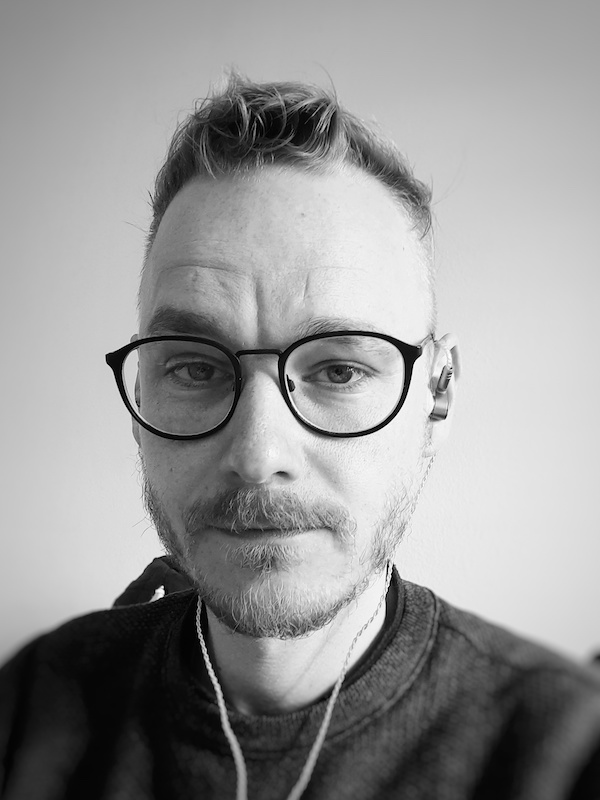
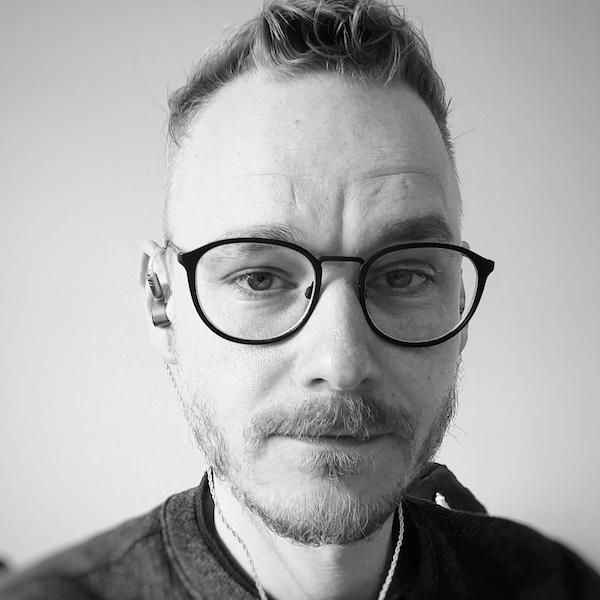
Update index.html, styles.css, head.jpg, Add responsive layout

diff --git a/index.html b/index.html
@@ -4,55 +4,83 @@
     <meta charset="UTF-8" />
     <meta http-equiv="X-UA-Compatible" content="IE=edge" />
     <meta name="viewport" content="width=device-width, initial-scale=1.0" />
-    <title>Document</title>
-    <link rel="stylesheet" href="grid-styles.css" />
+    <title>Christof Jens</title>
+    <link rel="stylesheet" href="styles.css" />
+    <link rel="preconnect" href="https://fonts.gstatic.com" />
+    <link
+      href="https://fonts.googleapis.com/css2?family=Source+Sans+Pro:wght@300&family=Zilla+Slab&display=swap"
+      rel="stylesheet"
+    />
   </head>
   <body>
     <div class="all-g-wrapper">
-      <div class="g-title"><h1>Christof Jens</h1></div>
-      <div class="g-nav">
-        <a href="#about">About/CV</a> <a href="#contact">Contact</a>
-      </div>
-      <div class="g-por">
-        <img src="./images/head.jpeg" alt="" style="width: 100%" />
-      </div>
-      <div class="g-about"><h2>About</h2></div>
-      <div class="about-f-wrapper">
-        <div class="f-professional">
-          <h3>Professional</h3>
-          #Photoshop #Indesign #Illustrator #Premiere #DavinciResolve
+      <div class="header-f-wrapper">
+        <div class="g-portrait">
+          <img
+            src="./images/head.jpeg"
+            alt=""
+            style="width: 160px"
+            class="portrait"
+          />
         </div>
-        <div class="f-personal">
-          <h3>Personal</h3>
-          #Family #Kayaking #Hiking #Bicycles #Thelittlethings
+        <div class="g-title">
+          <h1>Christof Jens</h1>
+          Webdeveloper
         </div>
       </div>
-      <div class="g-bio">
-        <h3>Bio</h3>
+      <div id="about" class="g-about">
+        <hr />
+        <h2>About</h2>
         Birth Kindergardener Pupil Screendesigner Backpacker TV Production
         Assistant TV Unit Manager Student Marketing Manager Project Manager Dad
         Student t.b.c.
       </div>
-      <div class="g-cv-headline"><h2>CV</h2></div>
+      <div class="about-f-wrapper">
+        <div class="f-professional">
+          <h3>Professional</h3>
+          <ul>
+            <li>#Photoshop</li>
+            <li>#Indesign</li>
+            <li>#Illustrator</li>
+            <li>#Premiere</li>
+            <li>#DavinciResolve</li>
+          </ul>
+        </div>
+        <div class="f-personal">
+          <h3>Personal</h3>
+          <ul>
+            <li>#Family</li>
+            <li>#Kayaking</li>
+            <li>#Hiking</li>
+            <li>#Films</li>
+            <li>#Thelittlethings</li>
+          </ul>
+        </div>
+      </div>
+      <div class="g-cv-headline">
+        <hr />
+        <h2>CV</h2>
+      </div>
       <div class="g-cv-content">
         <dl>
-          <dt>Print- and Screendesign</dt>
-          <dd>various Agencies (2001-2007)</dd>
-          <dt>Setrunner to Unit Manager</dt>
-          <dd>various TV production companies (2007-2009)</dd>
-          <dt>BA International Communication</dt>
-          <dd>Hanze University, Groningen/Netherlands (2009-2011)</dd>
-          <dt>BA Social Sciences/Intercultural Relations</dt>
-          <dd>
-            Fulda University of Applied Sciences, Fulda/Germany (2011-2016)
-          </dd>
-          <dt>Marketing Manager</dt>
-          <dd>DAA Schleswig-Holstein (2016-2018)</dd>
-          <dt>Project Manager</dt>
-          <dd>Landkreis Lüchow-Dannenberg (2018-2020)</dd>
+          <dt>Print- and Screendesign (2001-2007)</dt>
+          <dd>various Agencies</dd>
+          <dt>Setrunner to Unit Manager (2007-2009)</dt>
+          <dd>various TV production companies</dd>
+          <dt>BA International Communication (2009-2011)</dt>
+          <dd>Hanze University, Groningen/Netherlands</dd>
+          <dt>BA Social Sciences/Intercultural Relations (2011-2016)</dt>
+          <dd>Fulda University of Applied Sciences, Fulda/Germany</dd>
+          <dt>Marketing Manager (2016-2018)</dt>
+          <dd>DAA Schleswig-Holstein</dd>
+          <dt>Project Manager (2018-2020)</dt>
+          <dd>Landkreis Lüchow-Dannenberg</dd>
         </dl>
       </div>
-      <div class="g-contact-headline"><h2>Contact</h2></div>
+      <div class="g-contact-headline">
+        <hr />
+        <h2>Contact</h2>
+      </div>
       <div class="g-contact-content">
         <div class="f-phone">
           <img
@@ -60,6 +88,7 @@
             alt=""
             style="width: 40px; height: auto"
             href="tel:+4917612345678"
+            rel="noopener noreferrer"
           />
         </div>
         <div class="f-mail">
@@ -77,15 +106,16 @@
             alt=""
             style="width: 40px; height: auto"
             href="github.com/christofjens"
+            rel="noopener noreferrer"
           />
         </div>
         <div class="f-pen">
-          <a></a>
           <img
             src="./images/codepenicon.png"
             alt=""
             style="width: 40px; height: auto"
             href="codepen.io/christofjens"
+            rel="noopener noreferrer"
           />
         </div>
       </div>

diff --git a/styles.css b/styles.css
@@ -1,21 +1,99 @@
+:root {
+  --primary: teal;
+  --secondary: teal;
+  --text: #333;
+  --bgcolor: white;
+  --headline-bg: white;
+  --font-headlines: 'Zilla Slab', sans-serif;
+  --font-text: 'Source Sans Pro', sans-serif;
+}
+
+body {
+  font-family: var(--font-text);
+  font-size: 112.5%;
+  line-height: 1.5;
+  padding: 0px 20px;
+  margin: 0px;
+  color: var(--text);
+  background-color: var(--bgcolor);
+}
+
+h1 {
+  font-family: var(--font-headlines);
+  color: var(--primary);
+  line-height: 1;
+  margin: 50px 0px 0px 0px;
+}
+
+h2 {
+  font-family: var(--font-headlines);
+  color: var(--secondary);
+  text-align: center;
+  background-color: var(--headline-bg);
+  margin: 70px 0px 35px 0px;
+}
+
+h3 {
+  font-family: var(--font-headlines);
+  color: var(--secondary);
+  text-align: center;
+  background-color: var(--headline-bg);
+  margin: 35px 0px 35px 0px;
+}
+
+a {
+  text-decoration: none;
+  font-weight: 500;
+  color: var(--secondary);
+  border-bottom: 1px var(--secondary) solid;
+}
+
+hr {
+  border: none;
+  border-bottom: 0.5px solid var(--secondary);
+  width: 50%;
+  overflow: visible;
+  text-align: center;
+  height: 70px;
+}
+
+ul {
+  list-style-type: none;
+  padding: 0px;
+}
+
+dl {
+  margin: 0px;
+}
+
+dd {
+  margin: 0px 0px 30px 40px;
+}
+
 .g-title {
   grid-area: ttl;
+  text-align: center;
 }
 
 .g-nav {
   grid-area: nav;
+  margin: 0px 0px 50px;
+  text-align: center;
 }
 
 .g-portrait {
   grid-area: por;
+  text-align: center;
 }
 
 .g-about {
   grid-area: abt;
+  text-align: center;
 }
 
 .f-professional {
   flex: 33%;
+  margin: 0px 20px 0px 0px;
 }
 
 .f-personal {
@@ -41,34 +119,35 @@
 .g-contact-content {
   grid-area: coc;
   display: flex;
+  margin: 0px 0px 70px 0px;
 }
 
 .f-phone {
   flex: 25%;
-  width: 40px;
+  text-align: center;
 }
 
 .f-mail {
   flex: 25%;
+  text-align: center;
 }
 
 .f-git {
   flex: 25%;
+  text-align: center;
 }
 
 .f-pen {
   flex: 25%;
+  text-align: center;
 }
 
 .all-g-wrapper {
   display: grid;
   grid-template-areas:
-    'ttl'
-    'nav'
-    'por'
+    'ptn'
     'abt'
     'abw'
-    'bio'
     'cvh'
     'cvc'
     'coh'
@@ -80,5 +159,32 @@
   grid-area: abw;
 }
 
-@media (min-width: 600px) {
+.header-f-wrapper {
+  display: flex;
+  grid-area: ptn;
+  justify-content: space-evenly;
+}
+
+.hide {
+  visibility: hidden;
+}
+
+@media (min-width: 630px) {
+  body {
+    width: 600px;
+    font-family: var(--font-text);
+    font-size: 112.5%;
+    line-height: 1.5;
+    margin: auto;
+    padding: 0px 20px;
+    color: var(--text);
+    background-color: var(--bgcolor);
+    box-shadow: 0px 0px 15px 5px #cccccc;
+  }
+}
+
+.portrait {
+  border-radius: 0% 0% 50% 50%;
+  border: var(--secondary) 0.5px solid;
+  margin: -1px 0px 0px 0px;
 }
